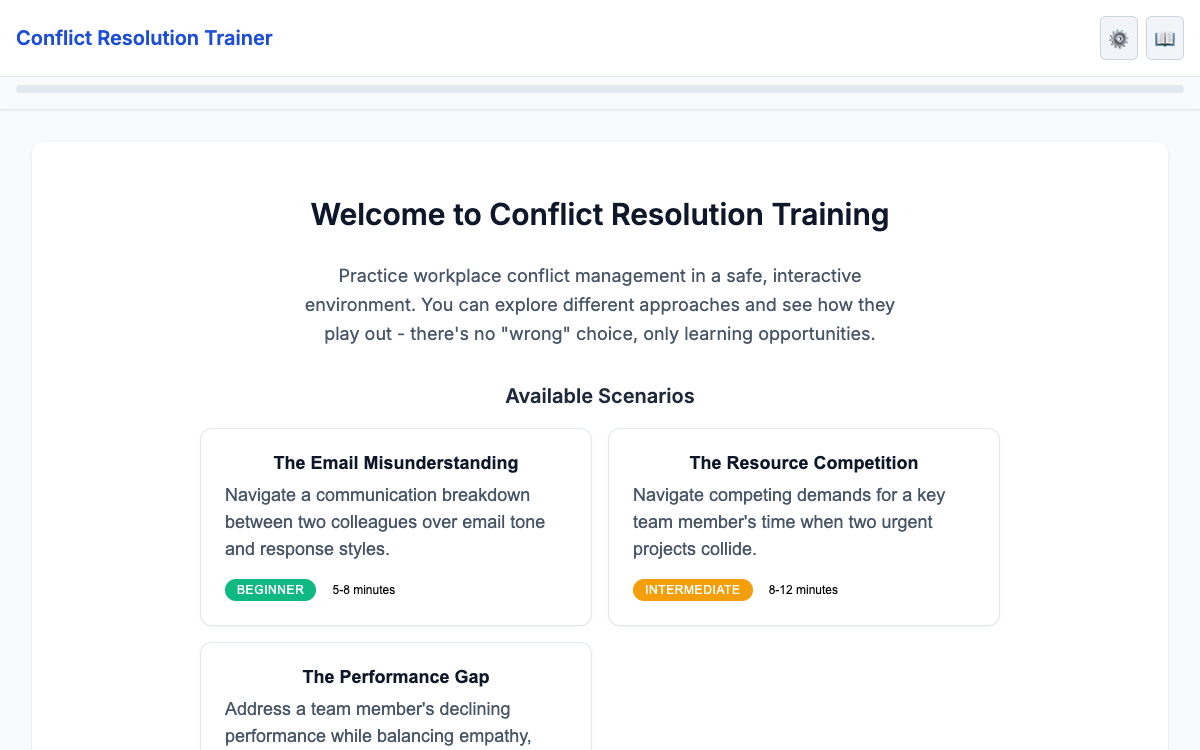
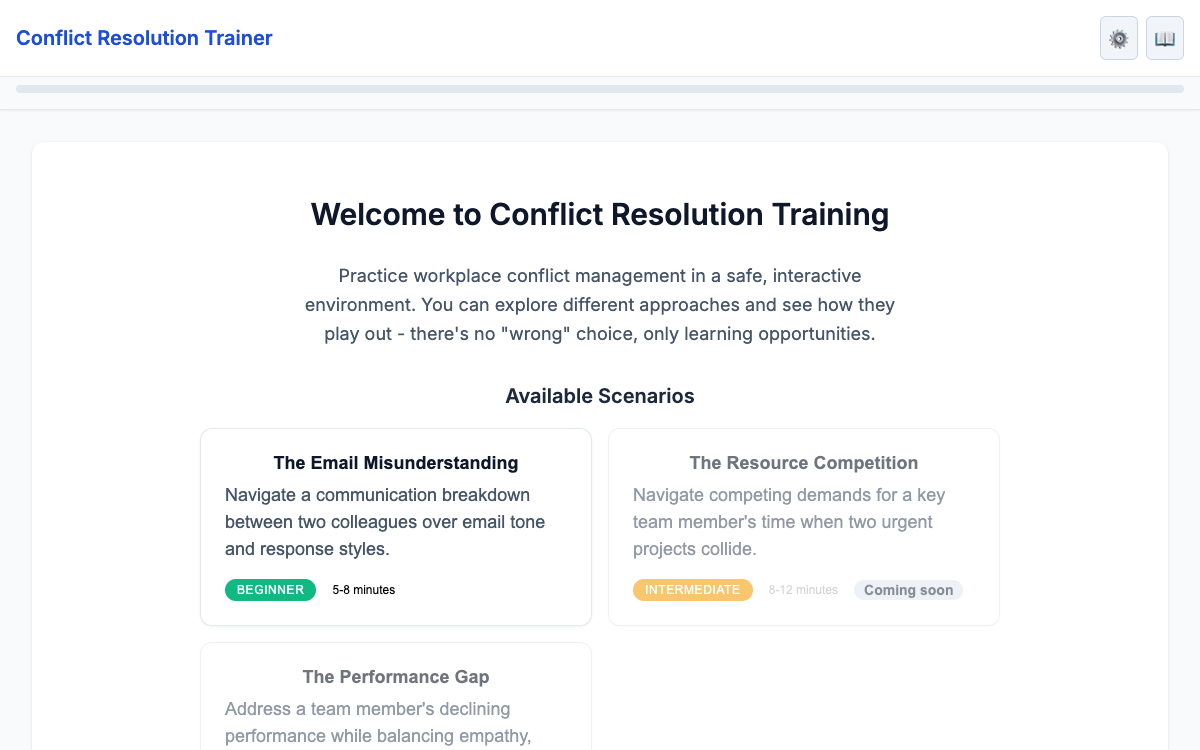
Conflict trainer page: one scenario playable, two in progress; new screenshots
Scenarios 2 and 3 never loaded on the live site (choices pointing to scenes
that don't exist), so the page no longer calls all three playable, and the
project is marked in progress. Screenshots show the new cast row and menu.

Changed region(s): [[0.185, 0.8893, 0.4317, 1.0], [0.5242, 0.6133, 0.8017, 0.736], [0.5242, 0.7667, 0.8017, 0.828]]

diff --git a/src/content/projects/conflict-trainer.ts b/src/content/projects/conflict-trainer.ts
@@ -3,10 +3,12 @@ import { ProjectBase } from '@/types/content';
 import { getImagePath } from '@/utils';
 
 /*
-  Written from the live site, the repo (github.com/williamthe5thc/ConflictGame,
+  Written from the live site, the game files, the repo (github.com/williamthe5thc/ConflictGame,
   files uploaded August 2025) and Jordan's reason for building it (Oct 2026):
   to help people handle conflict better. Scenario names, levels, times and
-  choice counts come from the scenario JSON files. Not yet known, so not
+  choice counts come from the scenario JSON files. Only the first scenario
+  is complete (Oct 2026): scenarios 2 and 3 have unwritten branches and show
+  as "Coming soon". Don't call them playable until they are. Not yet known, so not
   claimed: whether anyone has used it, and how it was built (solo, with AI
   help). Ask before adding either.
 */
@@ -16,16 +18,16 @@ const conflictTrainer: ProjectBase = {
   title: 'Conflict Resolution Trainer: Branching Workplace Scenarios',
   cardTitle: 'Conflict Resolution Trainer',
   description: 'A branching-scenario simulator for practicing workplace conflict. Learners choose how to respond, see how the choice plays out, and get feedback on the conflict strategy they used.',
-  longDescription: 'A web-based simulator with three workplace scenarios at beginner, intermediate and advanced levels. After each choice, it names the Thomas-Kilmann strategy the learner used, rates how well it worked, and explains why.',
+  longDescription: 'A web-based simulator built around workplace scenarios at beginner, intermediate and advanced levels. After each choice, it names the Thomas-Kilmann strategy the learner used, rates how well it worked, and explains why. The beginner scenario is complete; the other two are being written.',
   image: getImagePath('/images/projects/conflict-trainer-scene.png'),
   category: 'id',
   tags: ['Branching Scenarios', 'Thomas-Kilmann Model', 'Conflict Resolution', 'Feedback Design', 'JavaScript'],
-  status: 'completed',
+  status: 'in-progress',
   date: '2025',
 
   demoUrl: 'https://williamthe5thc.github.io/ConflictGame/',
   demoLabel: 'Try the simulator',
-  demoDescription: 'Opens the live simulator. All three scenarios are playable.',
+  demoDescription: 'Opens the live simulator. The Email Misunderstanding is playable; the other two scenarios are coming soon.',
   projectUrl: 'https://github.com/williamthe5thc/ConflictGame',
   projectLabel: 'View the code on GitHub',
 
@@ -36,23 +38,24 @@ const conflictTrainer: ProjectBase = {
     'Letting learners compare approaches without starting the whole scenario again'
   ],
   solutions: [
-    'Three scenarios that rise in difficulty: an email misunderstanding (beginner, 5-8 minutes), two projects competing for one designer (intermediate, 8-12 minutes) and a team member whose performance is slipping (advanced, 10-15 minutes)',
+    'Scenarios that rise in difficulty: an email misunderstanding (beginner, 5-8 minutes, complete), two projects competing for one designer (intermediate) and a team member whose performance is slipping (advanced), both still being written',
     'Feedback after every choice built on the Thomas-Kilmann model: the strategy used (collaborating, compromising, competing, accommodating or avoiding), a rating of how well it worked, a short explanation, and the skills it shows',
-    'Each scenario branches, with 20 to 27 choices and several endings',
+    'The beginner scenario branches through 20 choices to several different endings',
+    'Each scene shows the people involved, with their names and roles',
     'A "Go Back" button, so learners can return to a decision and try a different strategy',
     'Progress saves in the browser, so a scenario can be finished later',
     'Each scenario is a separate data file, so a new one can be written without changing the code'
   ],
   results: [
-    'Live and playable on GitHub Pages, with all three scenarios',
+    'Live on GitHub Pages, with the beginner scenario playable from start to finish',
     'Includes screen-reader announcements for story changes, and turns animations off for people who ask their device for reduced motion'
   ],
   screenshotsTitle: 'Screenshots',
   screenshots: [
     {
       src: '/images/projects/conflict-trainer-scene.png',
-      alt: 'A scenario screen: an illustrated office meeting room beside the story text, "You notice tension building in your team. Alex sent Jordan a brief email..." with four response choices below.',
-      caption: 'Each scene sets up the situation and offers several ways to respond.',
+      alt: 'A scenario screen: an illustrated office meeting room with portraits of Alex (Senior Analyst) and Jordan (Project Coordinator) below it, beside the story text, "You notice tension building in your team. Alex sent Jordan a brief email..." and the first response choices.',
+      caption: 'Each scene sets up the situation, shows who is involved, and offers several ways to respond.',
       width: 1200,
       height: 750
     },
@@ -65,8 +68,8 @@ const conflictTrainer: ProjectBase = {
     },
     {
       src: '/images/projects/conflict-trainer-home.png',
-      alt: 'Home screen listing three scenarios: The Email Misunderstanding (beginner, 5-8 minutes), The Resource Competition (intermediate, 8-12 minutes) and The Performance Gap (advanced, 10-15 minutes).',
-      caption: 'Three scenarios, from beginner to advanced.',
+      alt: 'Scenario menu: The Email Misunderstanding (beginner, 5-8 minutes), and The Resource Competition (intermediate) and The Performance Gap (advanced), both marked Coming soon.',
+      caption: 'One scenario is ready; two more are being written.',
       width: 1200,
       height: 750
     }
